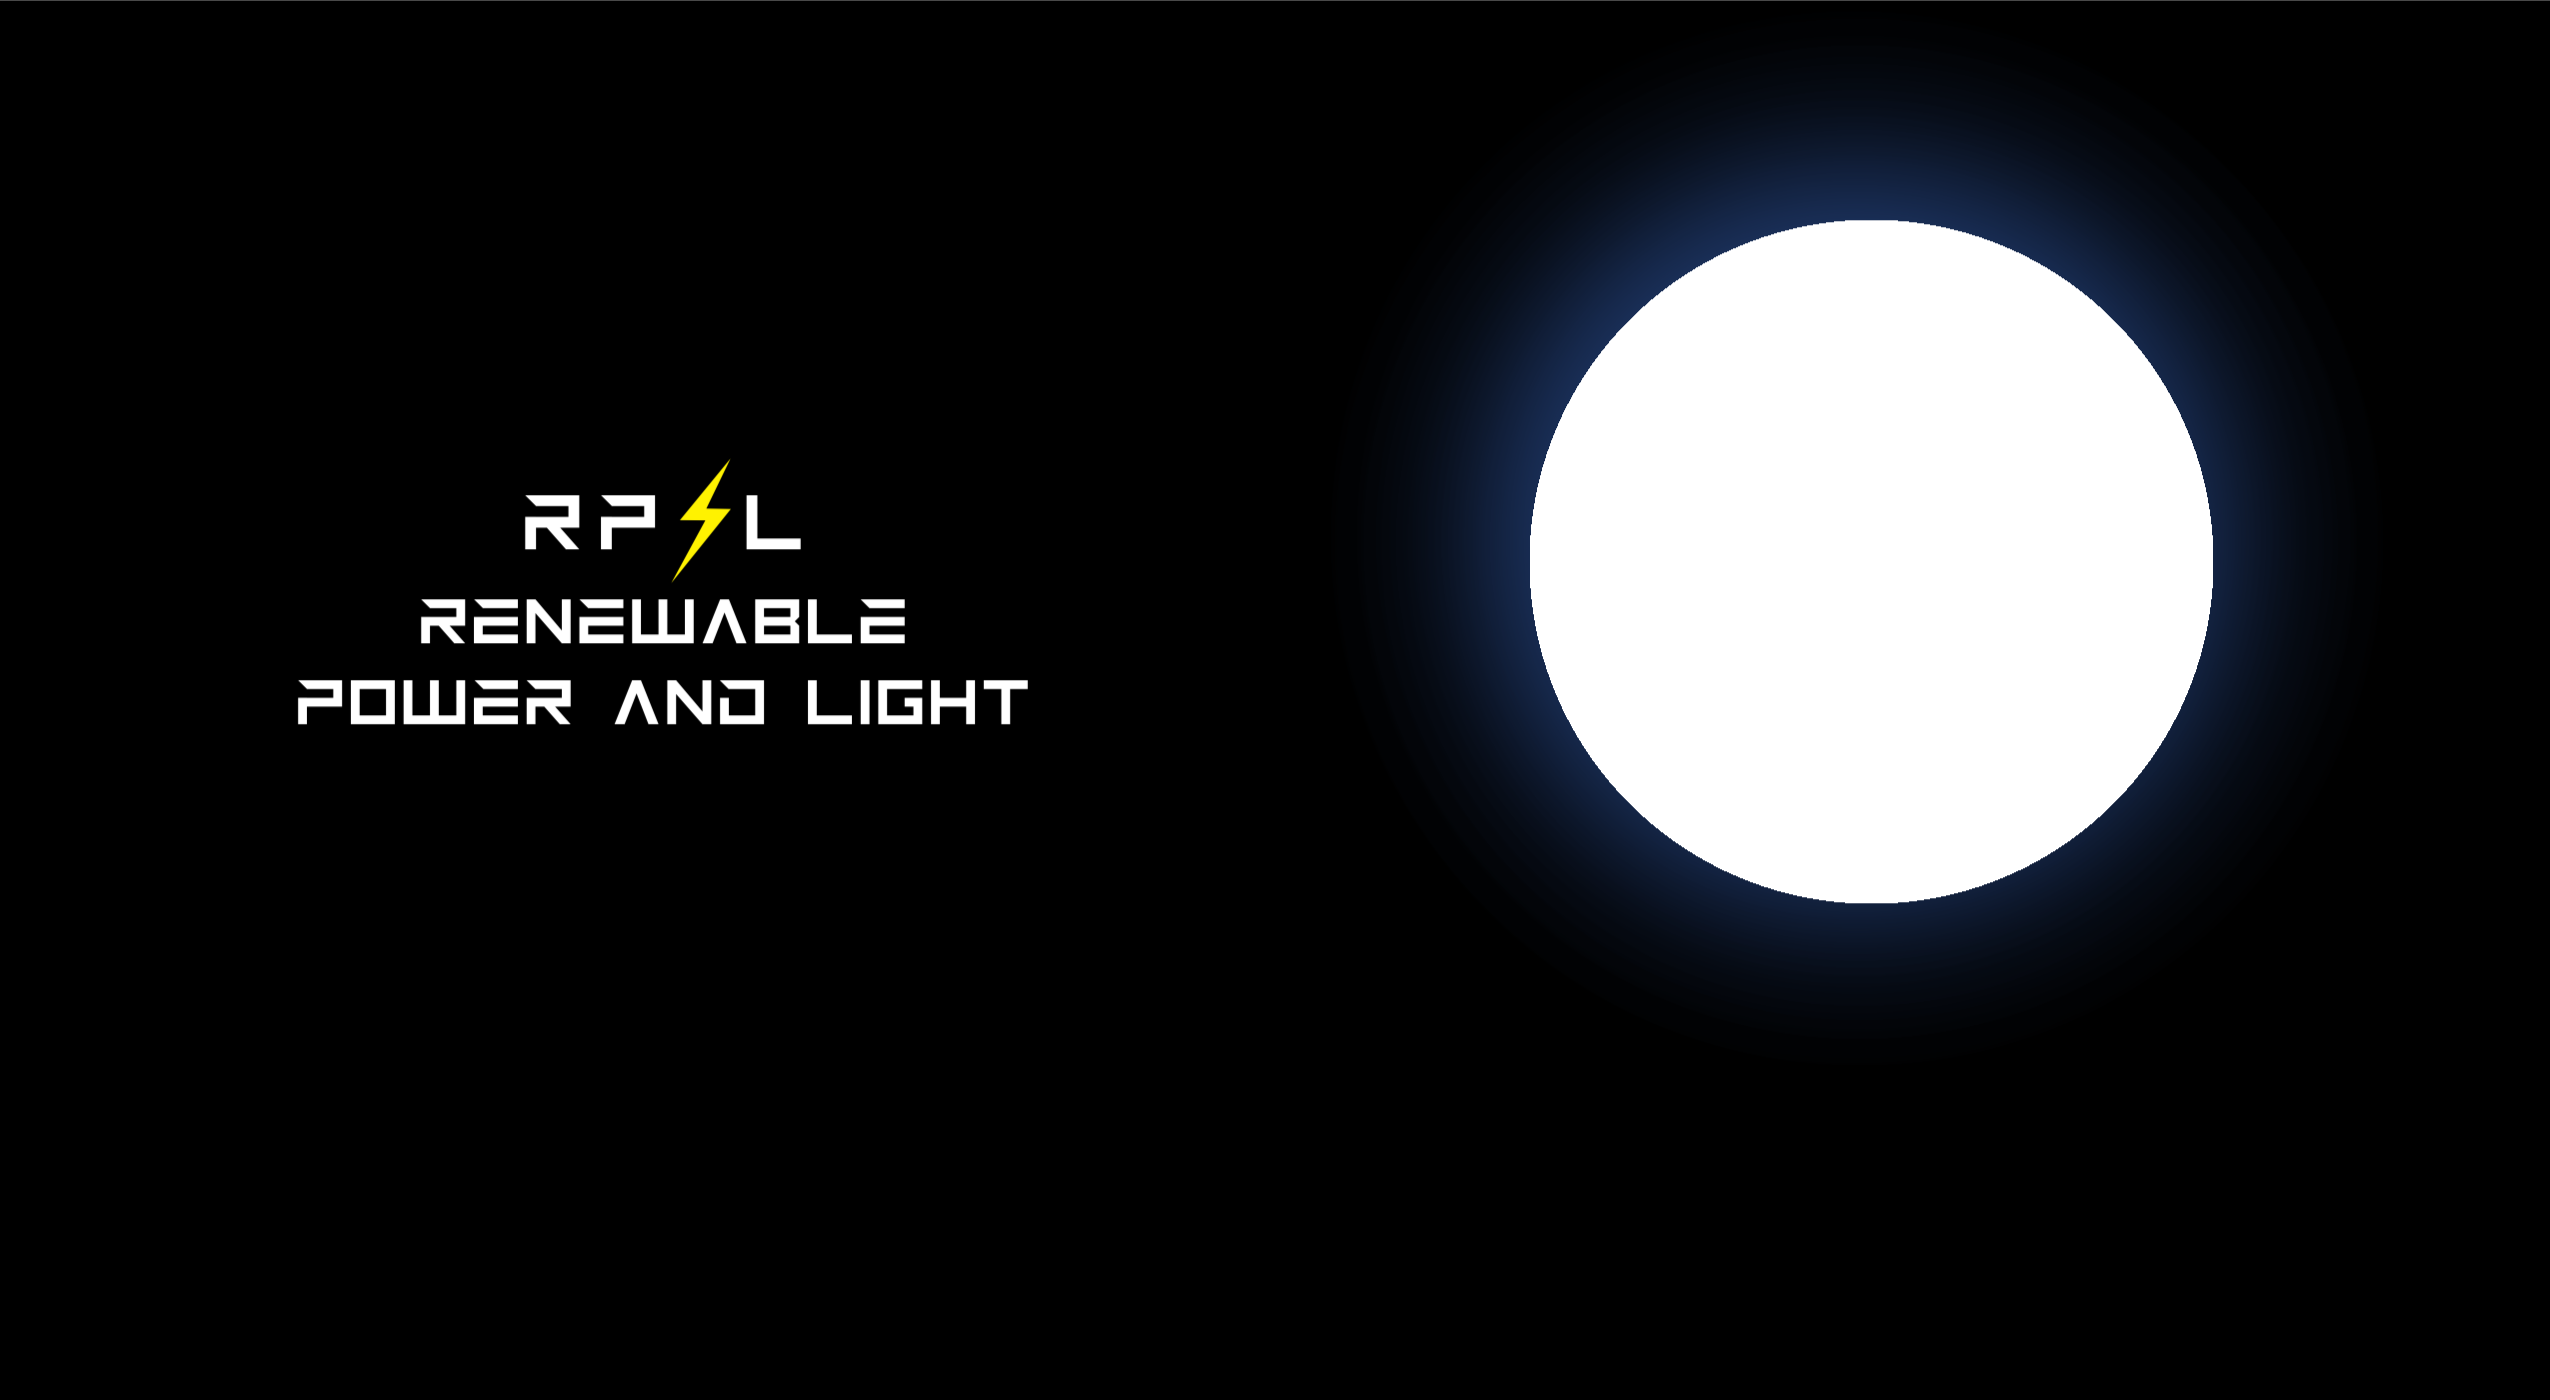
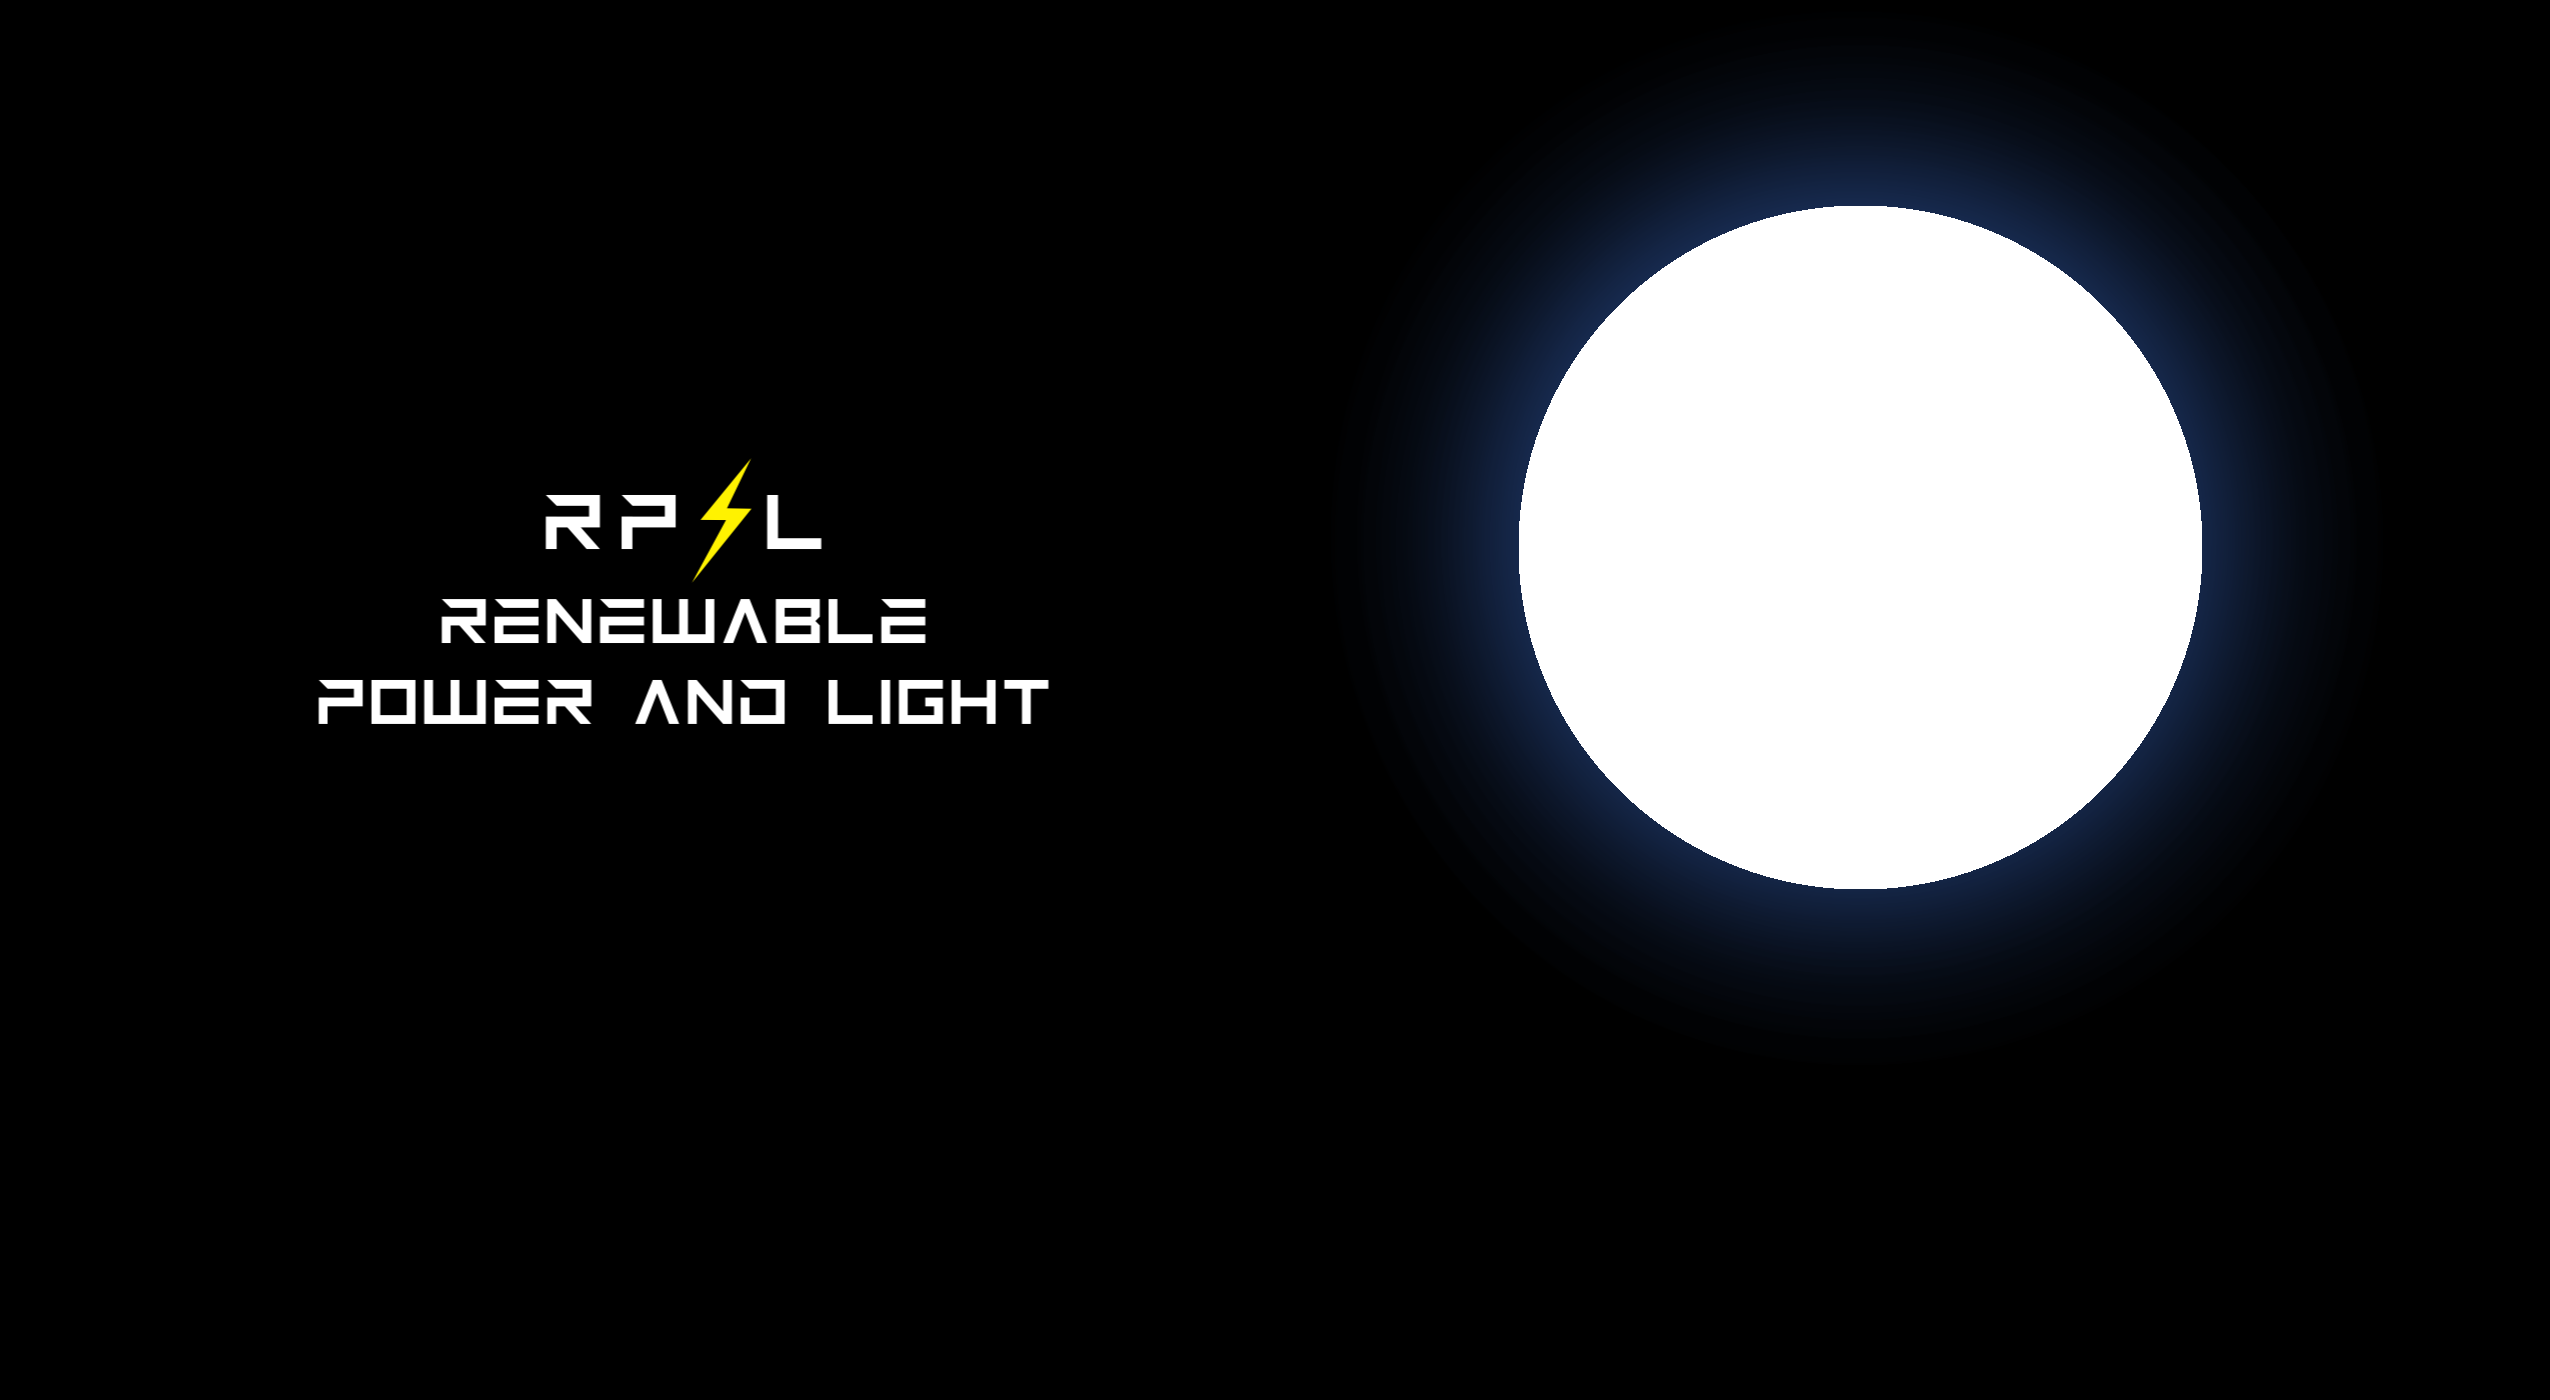
RPLHome responsiveness

diff --git a/RPLCorp/css/RPLstyles.css b/RPLCorp/css/RPLstyles.css
@@ -10,33 +10,69 @@ body {
 }
 
 .container {
-  background: url(../img/RPLbkgd.png) no-repeat fixed;
-  background-repeat: no-repeat;
-  background-attachment: fixed;
-  webkit-background-size: cover;
-  -moz-background-size: cover;
-  -o-background-size: cover;
-  background-size: cover;
+  display: flex;
+  flex-wrap: wrap;
+  flex-direction: row-reverse;
   width: 100%;
   height: 100%;
-  max-height: 760px;
   margin: auto;
+  padding-top: 50px;
   position: absolute;
 }
 
 .box1 {
-  /* width: 60%;
-  float: left; */
-  position: absolute;
-  top: 100px;
-  left: 50px;
+  float: left;
+  width: 50%;
+  position: relative;
 }
 
 .box2 {
-  /* width: 40%;
-  float: left; */
-  position: fixed;
-  top: 102px;
-  right: 178px;
+  float: left;
+  width: 50%;
+  position: relative;
+}
+
+#rplrenewablelogo {
+  display: block;
+  width: 60%;
+  margin: auto;
+  margin-top: 200px;
+}
+
+#globe {
+  width: 65%;
+  position: absolute;
+  margin-top: 90px;
+  left: 124px;
   z-index: -1;
+}
+
+#mask {
+  position: absolute;
+  width: 100%;
+}
+
+/* if screen less than 480 wide... */
+@media screen and (max-width: 600px) {
+
+  .box1 {
+    width: 100%;
+    flex-wrap: nowrap;
+  }
+
+  .box2 {
+    width: 100%;
+    flex-wrap: nowrap;
+  }
+
+  #rplrenewablelogo {
+    margin-top: 300px;
+  }
+
+  #globe {
+    margin: auto;
+    width: 65%;
+    top: 63px;
+    left: 17%;
+  }
 }

diff --git a/RPLCorp/RPLHome.html b/RPLCorp/RPLHome.html
@@ -7,14 +7,18 @@
   </head>
   <body>
       <div class="container">
-        <div class="box1"></div>
+        <div class="box1">  
+          <img id="globe" src="img/globe.gif" alt="globe">
+          <img id="mask" src="img/globemask.png" alt="mask">
+        </div>
         <div class="box2">
-          <img src="img/globe.gif" alt="globe">
+          <img id="rplrenewablelogo" src="img/rplrenewablelogo.png" alt="rplrenewablelogo">
         </div>
       </div>
 
       <!-- <h1 class="shadow">The PHOTON ENGINE</h1>
       <a href="1submarine.html">Next >></a> -->
+    </div>
     <footer>
 
     </footer>
